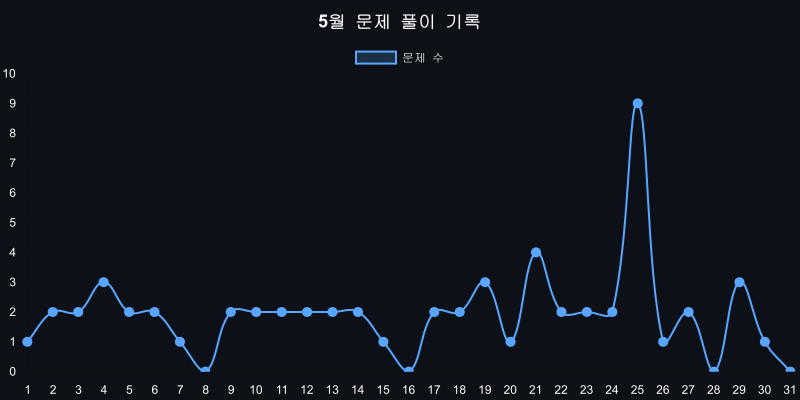
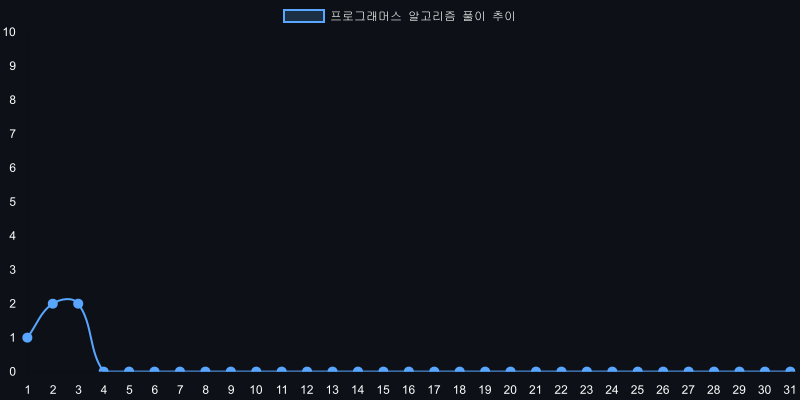
feat : title + cnt 수정
- 타이틀명 수정
- 문제수 카운트 초기화

diff --git a/generate-chart.js b/generate-chart.js
@@ -18,7 +18,7 @@ const configuration = {
     data: {
         labels: Array.from({ length: values.length }, (_, i) => i + 1),
         datasets: [{
-            label: '문제 수',
+            label: '프로그래머스 알고리즘 풀이 추이',
             data: values,
             borderColor: '#58a6ff',
             backgroundColor: 'rgba(88,166,255,0.2)',
@@ -31,14 +31,6 @@ const configuration = {
     options: {
         responsive: false,
         plugins: {
-            title: {
-                display: true,
-                text: '5월 문제 풀이 기록',
-                color: '#ffffff',
-                font: {
-                    size: 18
-                }
-            },
             legend: {
                 labels: { color: '#ffffff' }
             }
